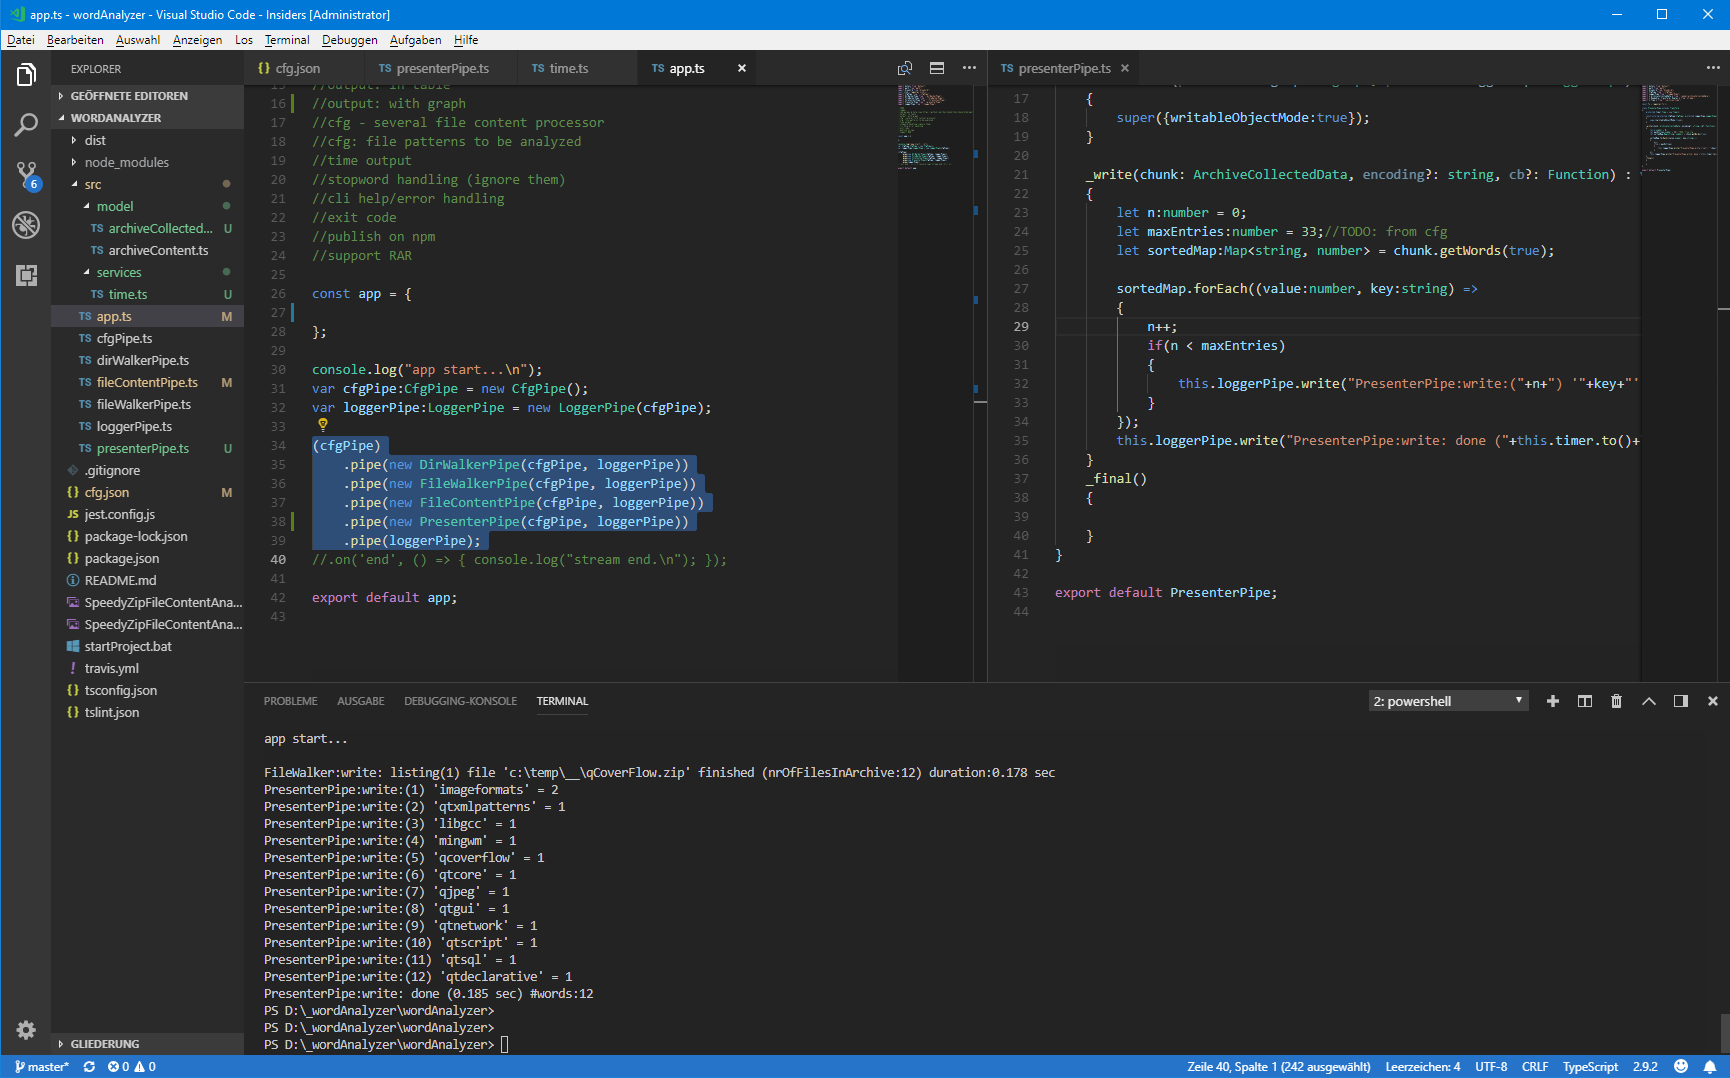
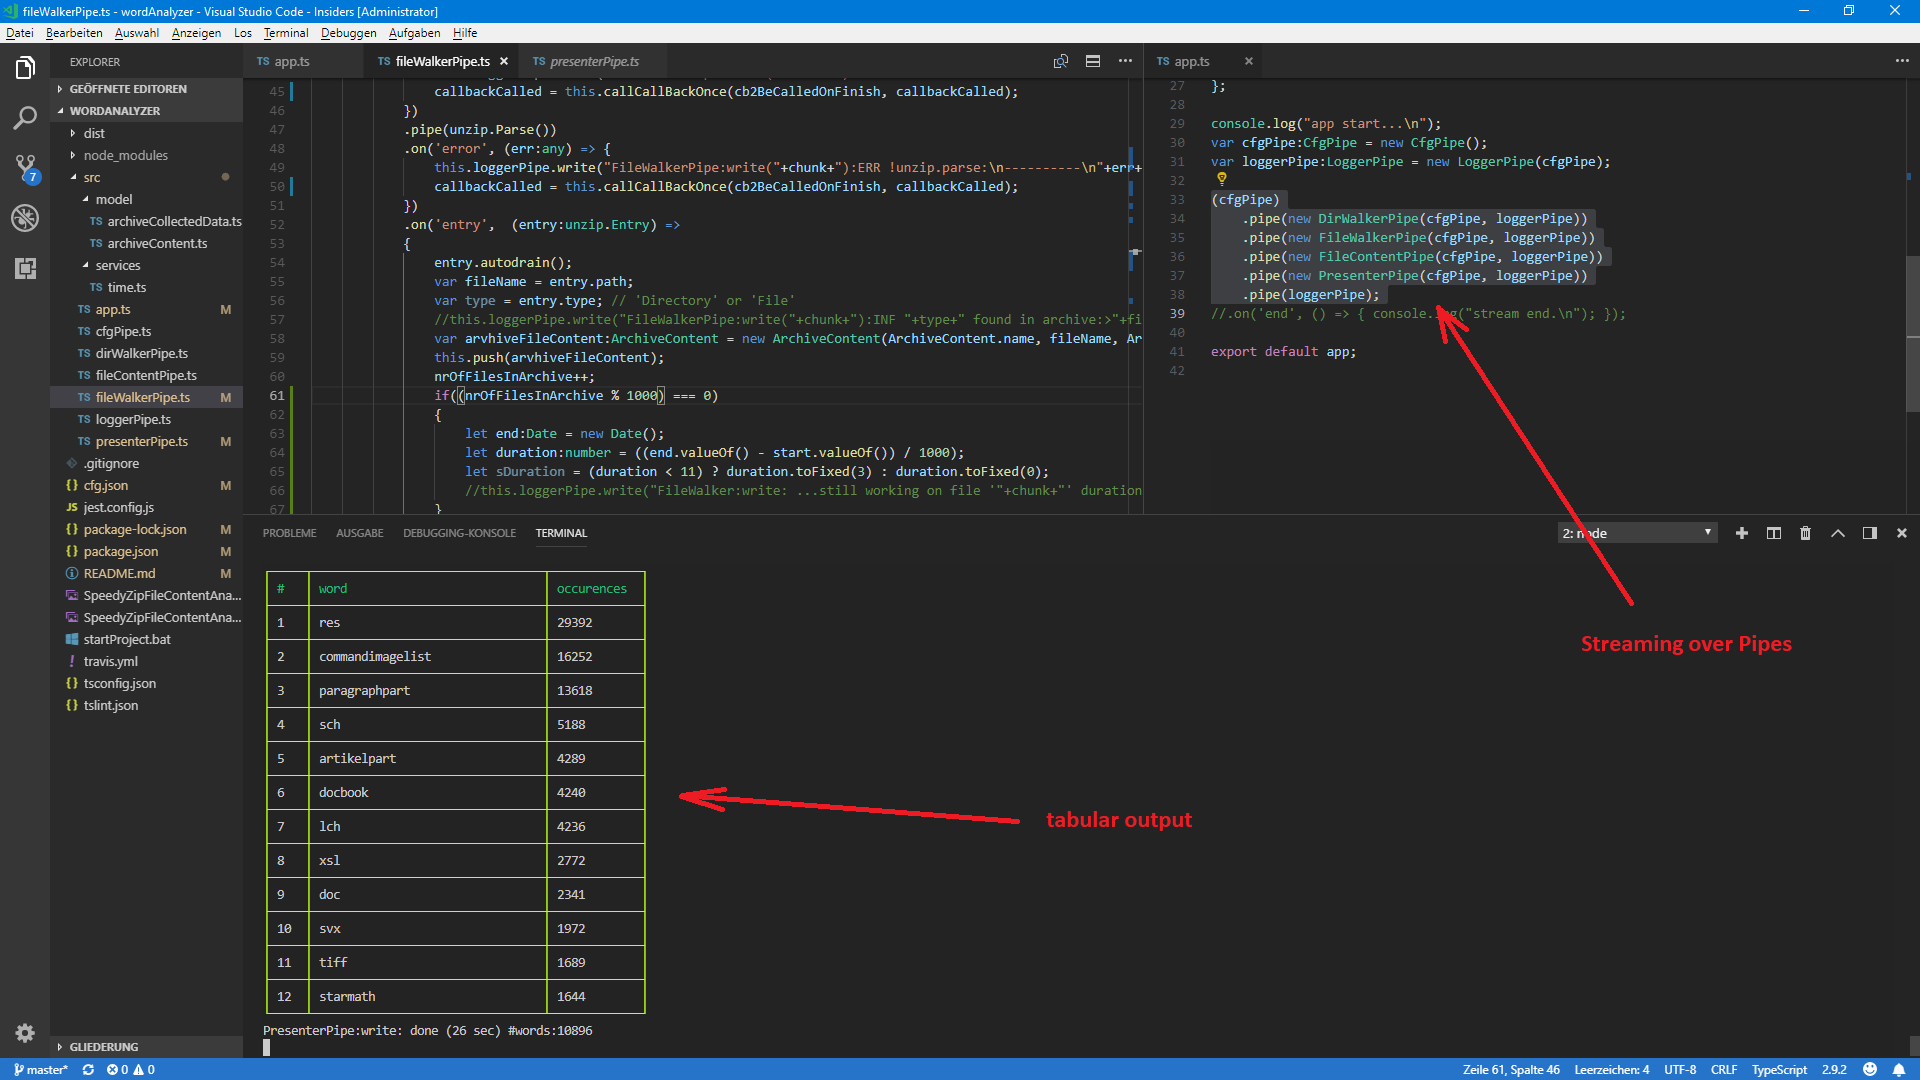
tabular output of collected data

diff --git a/src/fileWalkerPipe.ts b/src/fileWalkerPipe.ts
@@ -22,19 +22,32 @@ class FileWalkerPipe extends Transform
         super({readableObjectMode:true});
     }
 
+    protected callCallBackOnce(cb:Function, callbackCalled:boolean) : boolean
+    {
+        if( cb && !callbackCalled)
+            cb();
+        callbackCalled = true;
+        return true;
+    }
+
     _write(chunk: any, encoding?: string, cb2BeCalledOnFinish?: Function) : void
     {
         let nrOfFilesInArchive:number = 0;
         let start:Date = new Date();
+        let callbackCalled: boolean = false;
+
+        //TODO: skip 0 byte ZIP files!
+        //this.loggerPipe.write("FileWalker:write: START listing file '"+chunk+"'");
+
         fs.createReadStream(chunk)
             .on('error', (err:any) => {
                 this.loggerPipe.write("FileWalkerPipe:write("+chunk+"):ERR !fs.createReadStream:\n----------\n"+err+"\n-------------");
-                cb2BeCalledOnFinish();
+                callbackCalled = this.callCallBackOnce(cb2BeCalledOnFinish, callbackCalled);
             })
             .pipe(unzip.Parse())
             .on('error', (err:any) => {
                 this.loggerPipe.write("FileWalkerPipe:write("+chunk+"):ERR !unzip.parse:\n----------\n"+err+"\n-------------");
-                cb2BeCalledOnFinish();
+                callbackCalled = this.callCallBackOnce(cb2BeCalledOnFinish, callbackCalled);
             })
             .on('entry',  (entry:unzip.Entry) =>
             {
@@ -45,6 +58,13 @@ class FileWalkerPipe extends Transform
                 var arvhiveFileContent:ArchiveContent = new ArchiveContent(ArchiveContent.name, fileName, ArchiveContentType.name, chunk.toString());
                 this.push(arvhiveFileContent);
                 nrOfFilesInArchive++;
+                if((nrOfFilesInArchive % 1000) === 0)
+                {
+                    let end:Date = new Date();
+                    let duration:number = ((end.valueOf() - start.valueOf()) / 1000);
+                    let sDuration = (duration < 11) ? duration.toFixed(3) : duration.toFixed(0);    
+                    //this.loggerPipe.write("FileWalker:write: ...still working on file '"+chunk+"' duration:"+sDuration+" sec ("+nrOfFilesInArchive+" ZIP entries until now...) ");
+                }
                 //var size = entry.size;
                 //entry.pipe(fs.createWriteStream('output/path'));
             })
@@ -55,7 +75,7 @@ class FileWalkerPipe extends Transform
                 let sDuration = (duration < 11) ? duration.toFixed(3) : duration.toFixed(0);
 
                 this.loggerPipe.write("FileWalker:write: listing("+(++this.nrOfArchivesRead)+") file '"+chunk+"' finished (nrOfFilesInArchive:"+nrOfFilesInArchive+") duration:"+sDuration+" sec");
-                cb2BeCalledOnFinish();
+                callbackCalled = this.callCallBackOnce(cb2BeCalledOnFinish, callbackCalled);
             });
 
         /*Error: incorrect header check at Zlib.zlibOnError [as onerror] (zlib.js:153:17)

diff --git a/src/presenterPipe.ts b/src/presenterPipe.ts
@@ -6,6 +6,7 @@ import LoggerPipe from "./loggerPipe";
 import { ArchiveCollectedData } from './model/archiveCollectedData';
 import { Readable, Transform, Duplex } from 'stream';
 import { Time } from "./services/time";
+import Table from 'cli-table';
 
 const fs = require('fs');
 
@@ -24,14 +25,21 @@ class PresenterPipe extends Transform
         let maxEntries:number = Number.parseInt(this.cfgPipe.getString("wordMaxCount2Output", "33"));
         let sortedMap:Map<string, number> = chunk.getWords(true);
 
+        const table = new Table({
+            head: ['#', 'word', 'occurences'],
+            colWidths: [5, 33, 13],
+            style: {head: ['green'], border: ['yellow']}
+        });
+
         sortedMap.forEach((value:number, key:string) =>
         {
             nEntry++;
             if(nEntry < maxEntries)
             {
-                this.loggerPipe.write("PresenterPipe:write:("+nEntry+") '"+key+"' = "+value);
+                table.push([nEntry, key, value]);
             }
         });
+        console.log(table.toString());
         this.loggerPipe.write("PresenterPipe:write: done ("+this.timer.to()+") #words:"+sortedMap.size);
     }
     _final()

diff --git a/src/app.ts b/src/app.ts
@@ -12,7 +12,7 @@ import LoggerPipe from "./loggerPipe";
 //TODO:
 //logger
 //cmd params & help (see https://github.com/theclibook/theclibook/blob/master/sourcecode/client-bootstrap/bin/lounger-cli)
-//output: in table
+//throttle (to avoid maxFileHandle exceeded exception)
 //output: with graph
 //cfg - several file content processor
 //cfg: file patterns to be analyzed

diff --git a/README.md b/README.md
@@ -5,8 +5,12 @@
 ![SpeedyZipFileContentAnalyzer2](https://raw.githubusercontent.com/privet56/SpeedyZipFileContentAnalyzer/master/SpeedyZipFileContentAnalyzer.png)
 
 ### libs/hints
-	npm install unzip --save
-	npm install @types/unzip --save
+	ZIP:
+		npm install unzip --save
+		npm install @types/unzip --save
+	Console Output as Table: https://www.npmjs.com/package/cli-table , https://github.com/Automattic/cli-table
+		npm install cli-table --save
+		npm install @types/cli-table --save
 
 ### start command line app with:
 	shell 1: npm run watch-ts
